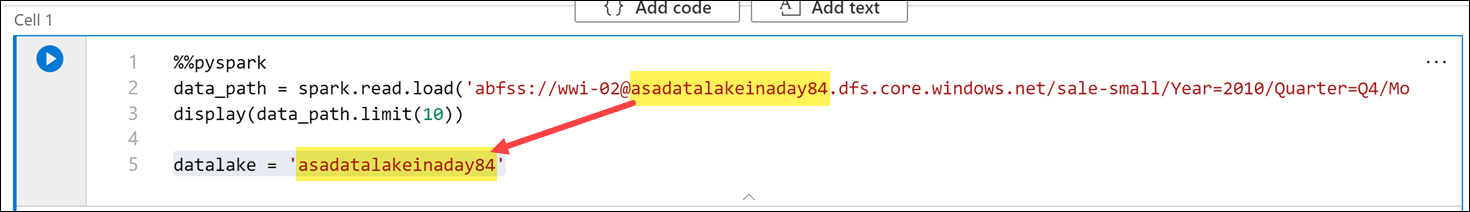
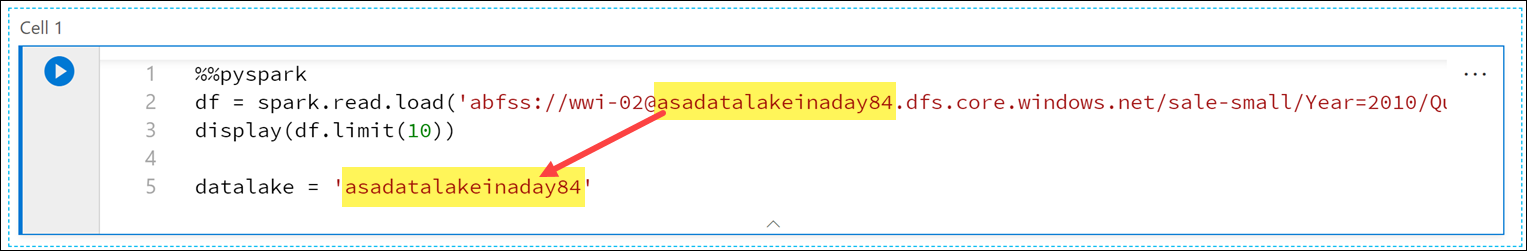
Module 3 updates

diff --git a/demos/module3/README.md b/demos/module3/README.md
@@ -2,12 +2,12 @@
 
 In this demo, we show how Azure Synapse Analytics enables you to perform data engineering tasks using the power of Apache Spark. The following table of contents describes and links to the elements of the demo:
 
-- [Perform Data Engineering with serverless Spark pools in Azure Synapse Analytics](#perform-data-engineering-with-azure-synapse-spark-pools)
+- [Perform Data Engineering with Serverless Spark Pools in Azure Synapse](#perform-data-engineering-with-serverless-spark-pools-in-azure-synapse)
   - [Demo prerequisites](#demo-prerequisites)
-  - [Ingesting data with Apache Spark notebooks in Azure Synapse Analytics](#ingesting-data-with-apache-spark-notebooks-in-azure-synapse-analytics)
-    - [Ingest and explore Parquet files from a data lake with Apache Spark for Azure Synapse Analytics](#ingest-and-explore-parquet-files-from-a-data-lake-with-synapse-spark)
-  - [Transforming data with DataFrames in Spark Pools in Azure Synapse Analytics](#transforming-data-with-dataframes-in-spark-pools-in-azure-synapse-analytics)
-    - [Query and transform JSON data with Synapse Spark](#query-and-transform-json-data-with-synapse-spark)
+  - [Ingesting data with Spark notebooks in Azure Synapse Analytics](#ingesting-data-with-spark-notebooks-in-azure-synapse-analytics)
+    - [Ingest and explore Parquet files from a data lake with Apache Spark for Azure Synapse](#ingest-and-explore-parquet-files-from-a-data-lake-with-apache-spark-for-azure-synapse)
+  - [Transforming data with DataFrames in Spark pools in Azure Synapse Analytics](#transforming-data-with-dataframes-in-spark-pools-in-azure-synapse-analytics)
+    - [Query and transform JSON data with Apache Spark for Azure Synapse](#query-and-transform-json-data-with-apache-spark-for-azure-synapse)
   - [Integrating SQL and Spark pools in Azure Synapse Analytics](#integrating-sql-and-spark-pools-in-azure-synapse-analytics)
 
 Tailwind Traders has unstructured and semi-structured files from various data sources. Their data engineers want to use their Spark expertise to explore, ingest, and transform these files.
@@ -32,7 +32,7 @@ You recommend using the Data hub to view the Parquet files in the connected stor
 
     ![The data hub is highlighted.](media/data-hub.png "Data hub")
 
-3. Select the **Linked** tab **(1)** and expand the primary data lake storage account (*the name may differ from what you see here; it is the first storage account listed*). Select the **wwi-02** container **(2)** and browser to the `sale-small/Year=2010/Quarter=Q4/Month=12/Day=20101231` folder **(3)**. Right-click the Parquet file **(4)** and select **New notebook (5)**.
+3. Select the **Linked** tab **(1)** and expand the `Azure Data Lake Storage Gen2` group, then expand the primary data lake storage account (*the name may differ from what you see here; it is the first storage account listed*). Select the **wwi-02** container **(2)** and browser to the `sale-small/Year=2010/Quarter=Q4/Month=12/Day=20101231` folder **(3)**. Right-click the Parquet file **(4)**, select **New notebook (5)**, then select **Load to DataFrame *6)**.
 
     ![The Parquet file is displayed as described.](media/2010-sale-parquet-new-notebook.png "New notebook")
 
@@ -48,19 +48,7 @@ You recommend using the Data hub to view the Parquet files in the connected stor
 
     > The auto-pause settings are configured on the Spark pool configuration in the Manage hub.
 
-    We can change the Spark configuration for this session by selecting **Configure session**. Let's do that now.
-
-5. Select **Configure session** at the bottom-left of the notebook.
-
-    ![Configure session.](media/configure-spark-session.png "Configure session")
-
-6. Set the number of **Executors** to **3 (1)**, then select **Apply (2)**.
-
-    ![The form is displayed.](media/configure-spark-session-form.png "Configure session")
-
-    We have just set the number of executors allocated to **SparkPool01** for the session.
-
-7. Add the following beneath the code in the cell to define a variable named `datalake` whose value is the name of the primary storage account (**replace the REPLACE_WITH_YOUR_DATALAKE_NAME value with the name of the storage account in line 2**):
+5. Add the following beneath the code in the cell to define a variable named `datalake` whose value is the name of the primary storage account (**replace the REPLACE_WITH_YOUR_DATALAKE_NAME value with the name of the storage account in line 2**):
 
     ```python
     datalake = 'REPLACE_WITH_YOUR_DATALAKE_NAME'
@@ -70,7 +58,7 @@ You recommend using the Data hub to view the Parquet files in the connected stor
 
     This variable will be used in a couple cells later on.
 
-8. Select **Run all** on the notebook toolbar to execute the notebook.
+6. Select **Run all** on the notebook toolbar to execute the notebook.
 
     ![Run all is highlighted.](media/notebook-run-all.png "Run all")
 
@@ -78,32 +66,32 @@ You recommend using the Data hub to view the Parquet files in the connected stor
 
     > **Note:** To run just the cell, either hover over the cell and select the _Run cell_ icon to the left of the cell, or select the cell then type **Ctrl+Enter** on your keyboard.
 
-9. After the cell run is complete, change the View to **Chart** in the cell output.
+7. After the cell run is complete, change the View to **Chart** in the cell output.
 
     ![The Chart view is highlighted.](media/2010-sale-parquet-table-output.png "Cell 1 output")
 
     By default, the cell outputs to a table view when we use the `display()` function. We see in the output the sales transaction data stored in the Parquet file for December 31, 2010. Let's select the **Chart** visualization to see a different view of the data.
 
-10. Select the **View options** button to the right.
+8.  Select the **View options** button to the right.
 
     ![The button is highlighted.](media/2010-sale-parquet-chart-options-button.png "View options")
 
-11. Set Key to **`ProductId`** and Values to **`TotalAmount` (1)**, then select **Apply (2)**.
+9.  Set Key to **`ProductId`** and Values to **`TotalAmount` (1)**, then select **Apply (2)**.
 
     ![The options are configured as described.](media/2010-sale-parquet-chart-options.png "View options")
 
-12. The chart visualization is displayed. Hover over the bars to view details.
+10. The chart visualization is displayed. Hover over the bars to view details.
 
     ![The configured chart is displayed.](media/2010-sale-parquet-chart.png "Chart view")
 
-13. Create a new cell underneath by selecting **{} Add code** when hovering over the blank space at the bottom of the notebook.
+11. Create a new cell underneath by selecting **{} Add code** when hovering over the blank space at the bottom of the notebook.
 
     ![The Add code button is highlighted underneath the chart.](media/chart-add-code.png "Add code")
 
-14. The Spark engine can analyze the Parquet files and infer the schema. To do this, enter the following in the new cell and **run** it:
+12. The Spark engine can analyze the Parquet files and infer the schema. To do this, enter the following in the new cell and **run** it:
 
     ```python
-    data_path.printSchema()
+    df.printSchema()
     ```
 
     Your output should look like the following:
@@ -125,14 +113,14 @@ You recommend using the Data hub to view the Parquet files in the connected stor
 
     Spark evaluates the file contents to infer the schema. This automatic inference is usually sufficient for data exploration and most transformation tasks. However, when you load data to an external resource like a SQL table, sometimes you need to declare your own schema and apply that to the dataset. For now, the schema looks good.
 
-15. Now let's use the dataframe to use aggregates and grouping operations to better understand the data. Create a new cell and enter the following, then **run** the cell:
+13. Now let's use the dataframe to use aggregates and grouping operations to better understand the data. Create a new cell and enter the following, then **run** the cell:
 
     ```python
     from pyspark.sql import SparkSession
     from pyspark.sql.types import *
     from pyspark.sql.functions import *
 
-    profitByDateProduct = (data_path.groupBy("TransactionDate","ProductId")
+    profitByDateProduct = (df.groupBy("TransactionDate","ProductId")
         .agg(
             sum("ProfitAmount").alias("(sum)ProfitAmount"),
             round(avg("Quantity"), 4).alias("(avg)Quantity"),
